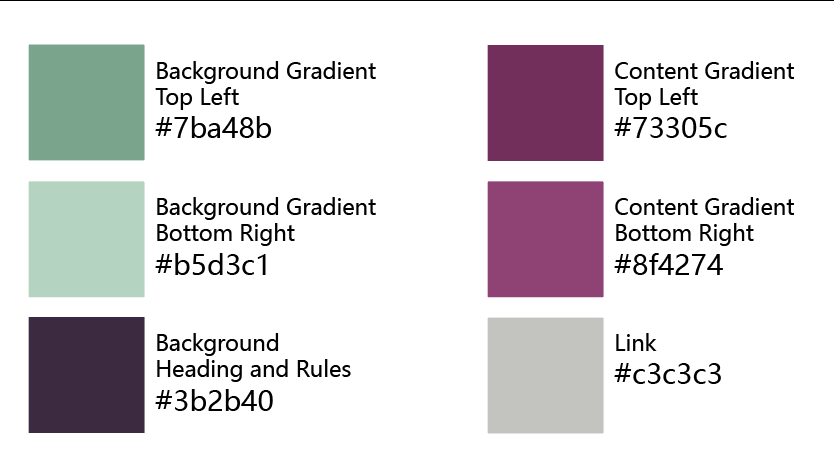
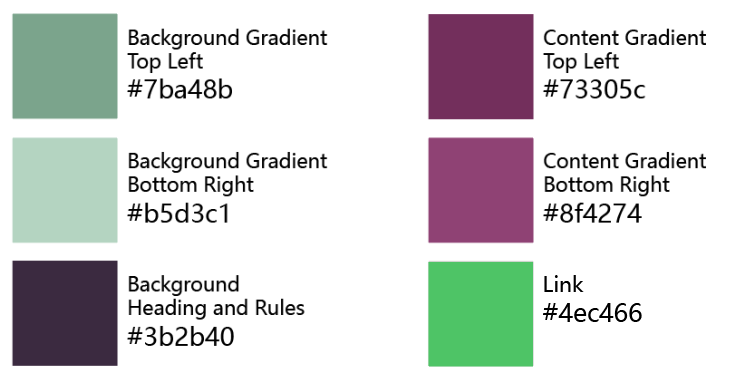
Change of colors

Changed region(s): [[0.0, 0.029, 0.4514, 0.9868], [0.5718, 0.029, 0.9631, 0.6385], [0.5718, 0.6675, 0.9029, 0.9868]]

diff --git a/assets/css/styles.css b/assets/css/styles.css
@@ -85,7 +85,7 @@ body {
 
 a {
     text-decoration: none;
-    color: #b5d3c1;
+    color: #4ec466;
 }
 
 i {

diff --git a/README.md b/README.md
@@ -32,7 +32,7 @@ the greenish background and the main Game Content area to not be too stale.
 - `#3b2b40` Background header and Rules.
 - `#73305c` Background Content gradient top left.
 - `#8f4274` Background Content gradient bottom right.
-- `#b5d3c1` Link color. 
+- `#4ec466` Link color to make it pop. 
 
 ### Typography
 
